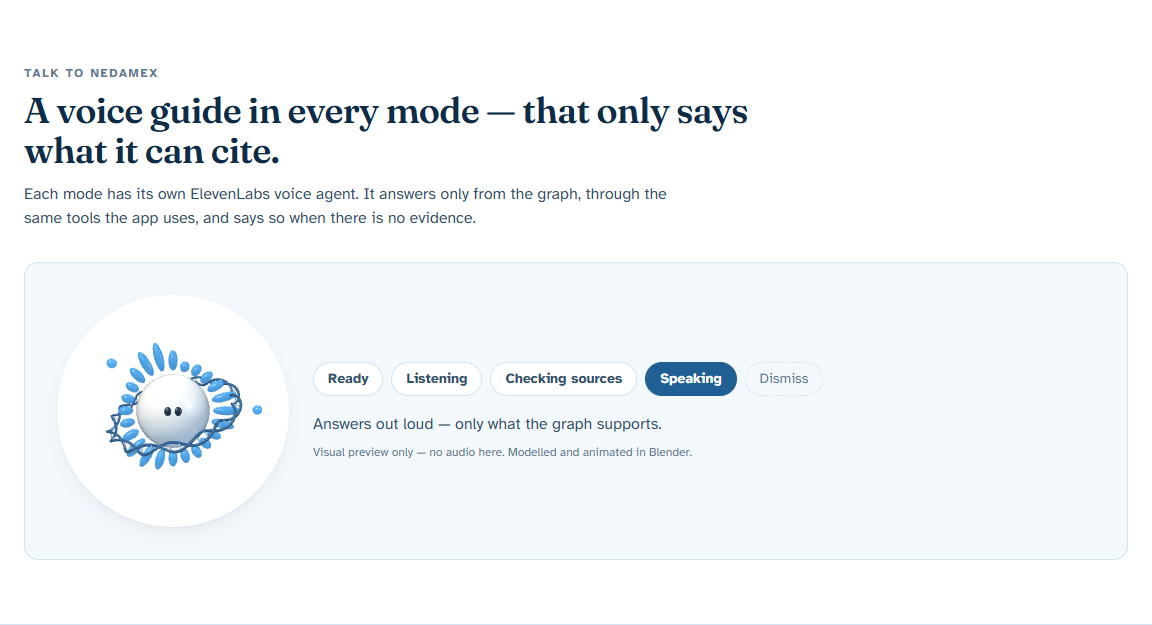
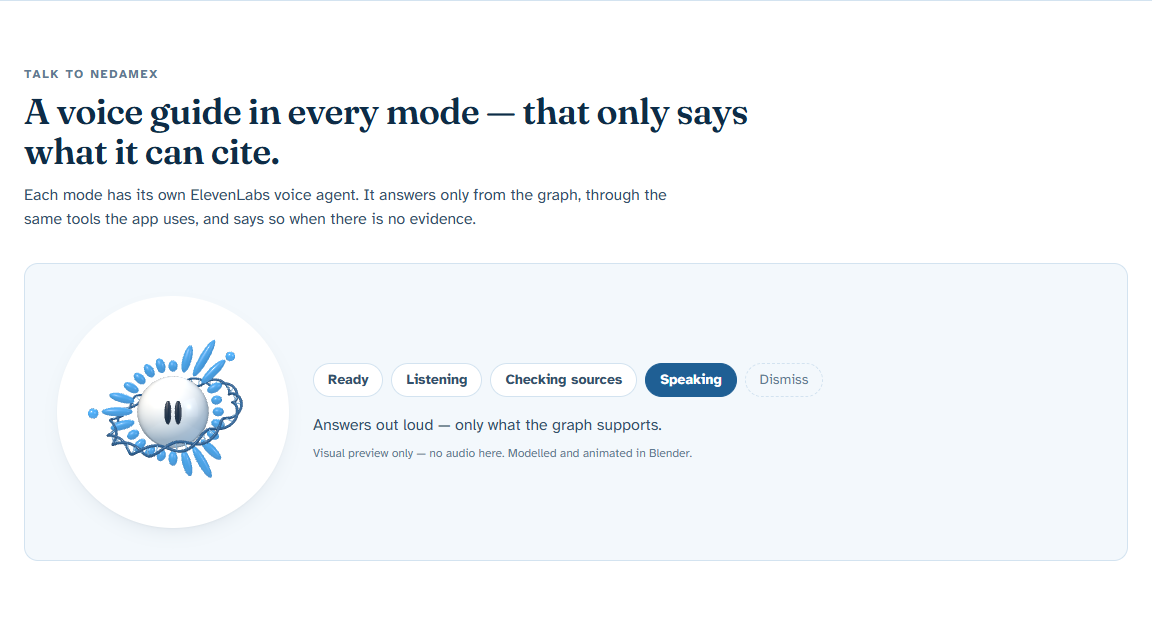
fix(brand): 'Open Nedamex' defaults to the Lovable app home (role selection); mode cards keep programHref deep links

diff --git a/src/lib/site.ts b/src/lib/site.ts
@@ -12,10 +12,10 @@ export const site = {
   challenge: "Hack-Nation 7 · Challenge 05 · AI Atlas for Rare Diseases · Buffalo Initiative × OpenAI",
   url: process.env.NEXT_PUBLIC_SITE_URL ?? (vercelUrl ? `https://${vercelUrl}` : "http://localhost:3000"),
   github: process.env.NEXT_PUBLIC_GITHUB_URL ?? "https://github.com/perdomoangelrangel-tech/7th-Hack-Nation-Global-AI-Hackathon-proyect",
-  /** The Nedamex app (MVP). WAVE 4: same domain, /atlas on Vercel. Every website CTA lands here. */
+  /** Deep links into the atlas (mode cards, "Explore it"): programHref({ p, d }). Prod env = https://nedamex.lovable.app/atlas. */
   programUrl: (process.env.NEXT_PUBLIC_PROGRAM_URL ?? "/atlas").replace(/\/$/, ""),
-  /** WAVE 5B: "Open Nedamex" lands on the app home (pick your role). Falls back to the atlas. */
-  appUrl: (process.env.NEXT_PUBLIC_APP_URL ?? process.env.NEXT_PUBLIC_PROGRAM_URL ?? "/atlas").replace(/\/$/, "") || "/",
+  /** WAVE 5B: "Open Nedamex" (nav, hero, how-to strip, footer) lands on the app home, where you pick your role. */
+  appUrl: (process.env.NEXT_PUBLIC_APP_URL ?? "https://nedamex.lovable.app").replace(/\/$/, "") || "/",
   /** Submission videos: real URLs from env; until then the storyboard drafts in public/videos (shown with a "Draft" label). */
   videos: {
     pitch: process.env.NEXT_PUBLIC_VIDEO_PITCH ?? process.env.NEXT_PUBLIC_VIDEO_TEAM ?? "",
